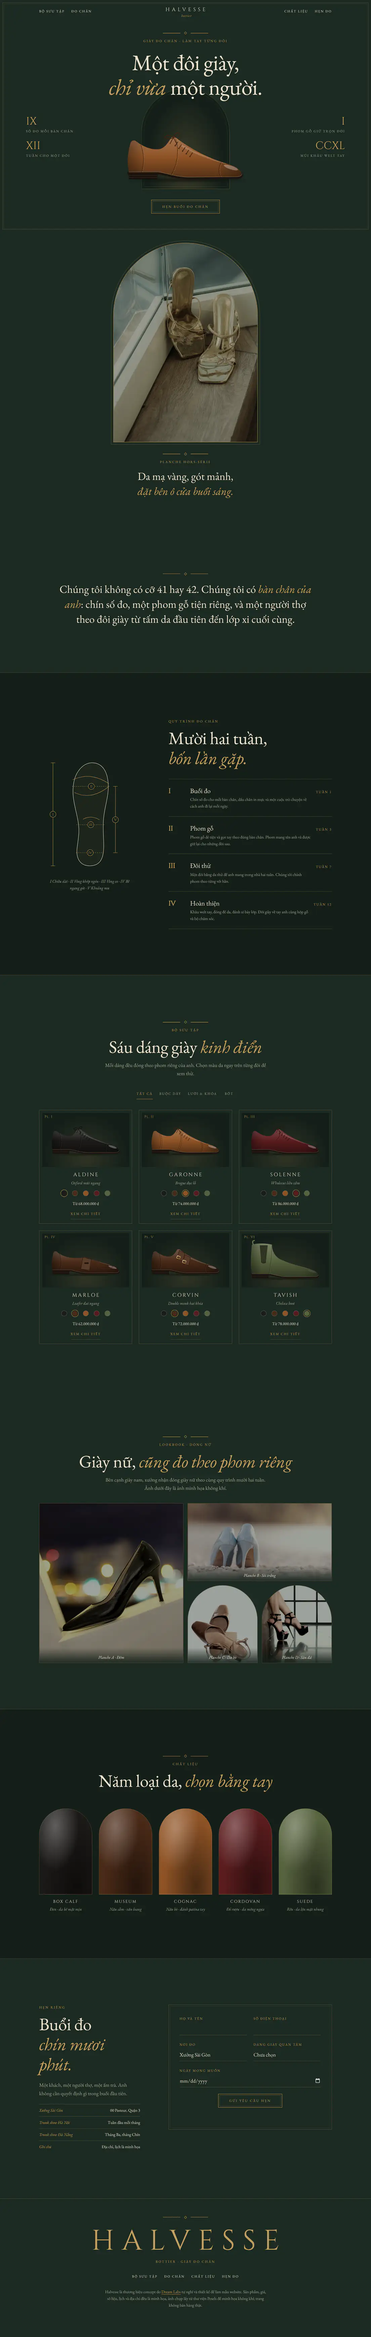
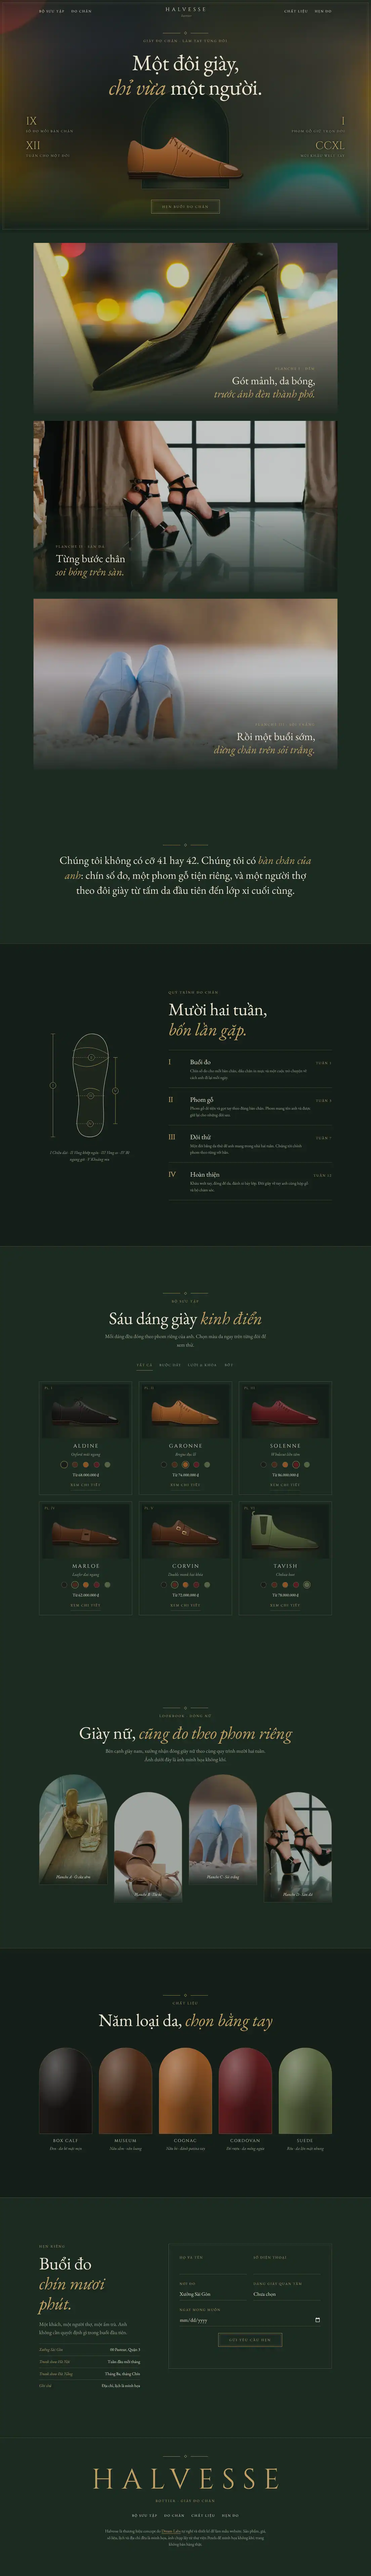
Demo Halvesse: hero bokeh, ô cửa vòm phóng toàn màn hình, lookbook nghiêng 3D
Claude-Session: https://claude.ai/code/session_012QLWn7rvRysGvRwdv6upwG

diff --git a/demos/lux-halvesse.html b/demos/lux-halvesse.html
@@ -41,13 +41,6 @@ input,select,textarea{font:inherit;color:inherit;border-radius:0}
 .toast{position:fixed;left:50%;bottom:26px;z-index:130;transform:translate(-50%,26px);opacity:0;pointer-events:none;transition:opacity 424ms var(--ease),transform 424ms var(--ease);max-width:calc(100vw - 32px);padding:10px 26px;font-size:13px;text-align:center}
 .toast.on{opacity:1;transform:translate(-50%,0)}
 .ph{position:relative;overflow:hidden;margin:0;background:var(--bg2)}
-.ph img{display:block;width:100%;height:100%;object-fit:cover;transition:transform 1796ms var(--ease),filter 1110ms var(--ease)}
-.pe{position:relative;overflow:hidden}.pe>.ph{position:absolute;inset:0}.pe>.ph img{position:absolute;left:0;top:-9%;height:118%}
-.pg-g{display:grid;grid-template-columns:repeat(4,1fr);grid-auto-rows:clamp(160px,19vw,300px);gap:10px}
-.pg-g .ph:first-child{grid-column:span 2;grid-row:span 2}.pg-4 .ph:nth-child(2){grid-column:span 2}
-.pg-g .ph:hover img{transform:scale(1.05)}
-.pg-g figcaption{position:absolute;left:0;right:0;bottom:0;padding:26px 16px 10px;font-size:13px;line-height:1.38;pointer-events:none}
-@media(max-width:700px){.pg-g{grid-template-columns:1fr 1fr;grid-auto-rows:clamp(150px,52vw,260px);gap:6px}.pg-g .ph:first-child{grid-row:span 1}.pg-4 .ph:nth-child(2){grid-column:span 1}.pg-4 .ph:last-child{grid-column:span 2}}
 .back{position:fixed;left:16px;bottom:16px;z-index:60;min-height:42px;padding:0 16px;display:flex;align-items:center;font-size:13px;letter-spacing:.04em}
 .fm{min-height:26px;font-size:13px}
 @media (prefers-reduced-motion:reduce){.js [data-r],.js [data-r=lines] .ln>span{opacity:1!important;transform:none!important;clip-path:none!important;transition:none!important}*,*::before,*::after{animation-duration:.01ms!important;animation-delay:0s!important;animation-iteration-count:1!important;transition-duration:.01ms!important;transition-delay:0s!important;scroll-behavior:auto!important}}
@@ -59,7 +52,7 @@ body::before{content:"";position:fixed;inset:10px;border:1px solid var(--line);o
 .rn{font-family:var(--fd);color:var(--acc)}
 h2{font-size:clamp(33px,5vw,68px);line-height:1.14;letter-spacing:-.01em}h2 em,h1 em{font-style:italic;color:var(--acc)}
 .orn{display:flex;align-items:center;justify-content:center;gap:16px;color:var(--acc)}
-.orn::before,.orn::after{content:"";height:1px;width:68px;background:var(--acc);transform-origin:right;animation:rl 1.8s .3s var(--ease) both}.orn::after{transform-origin:left}
+.orn::before,.orn::after{content:"";height:1px;width:68px;background:var(--acc);transform-origin:right;animation:rl 1.8s .3s var(--ease) both}.mo .orn[data-r]::before,.mo .orn[data-r]::after{animation:none;transform:scaleX(0);transition:transform 1.8s .3s var(--ease)}.mo .orn[data-r].in::before,.mo .orn[data-r].in::after{transform:none}.orn::after{transform-origin:left}
 .orn i{width:8px;height:8px;border:1px solid var(--acc);transform:rotate(45deg)}
 @keyframes rl{from{transform:scaleX(0)}to{transform:none}}
 .hdg{text-align:center;display:grid;gap:16px;justify-items:center;margin-bottom:68px}
@@ -100,6 +93,22 @@ h2{font-size:clamp(33px,5vw,68px);line-height:1.14;letter-spacing:-.01em}h2 em,h
 .hs b{font:400 42px/1 var(--fd);color:var(--acc);letter-spacing:0}.hs span{display:grid;gap:6px}.hs{gap:26px}
 .hs.l{left:max(42px,7vw);text-align:left}.hs.r{right:max(42px,7vw);text-align:right;justify-items:end}
 .hero .bt{margin-top:42px;animation:up 1.8s 1.1s var(--ease) both}
+.hb{position:absolute;inset:-4%;z-index:0}
+.hb img{width:100%;height:100%;object-fit:cover;transform-origin:18% 50%;transform:scale(1.16)}
+.mo .hb img{animation:kb 36s ease-in-out infinite alternate}
+@keyframes kb{from{transform:scale(1.14)}to{transform:scale(1.32) translate(1.5%,2%)}}
+.hb::after{content:"";position:absolute;inset:0;background:radial-gradient(ellipse 46% 58% at 50% 50%,rgba(20,31,25,.86),rgba(20,31,25,.56) 96%),linear-gradient(0deg,var(--bg) 6%,transparent 30%,transparent 78%,rgba(20,31,25,.7))}
+.hc{position:absolute;inset:0;width:100%;height:100%;z-index:0;pointer-events:none}
+.hero>.orn,.hero>.sc2,.hero>.bt,.alc,.hs{z-index:1}.hero>.orn,.hero>.sc2,.hero>.bt{position:relative}
+@media(min-width:901px){.hs{text-shadow:0 0 16px #141f19,0 0 4px #141f19}}
+.hero.off *{animation-play-state:paused!important}
+.gl{position:absolute;inset:0;border-radius:inherit;overflow:hidden;pointer-events:none}
+.mo .gl::before{content:"";position:absolute;inset:-10% auto -10% 0;width:46%;background:linear-gradient(100deg,transparent,rgba(241,223,174,.17),transparent);animation:gl 8s 2.6s var(--ease) infinite both}
+@keyframes gl{0%{transform:translateX(-150%) skewX(-14deg)}36%,100%{transform:translateX(340%) skewX(-14deg)}}
+.wd{display:inline-block;overflow:hidden;vertical-align:top;padding:.3em .05em .24em;margin:-.3em -.05em -.24em}
+.ch{display:inline-block;animation:chr 1.6s calc(.25s + var(--c)*44ms) cubic-bezier(.16,1,.3,1) both}
+@keyframes chr{from{transform:translateY(130%) rotate(8deg)}}
+.hero h1.sp{animation:none}
 @media(max-width:900px){.hs{position:static;grid-auto-flow:column;gap:26px;margin-top:26px;text-align:center!important;justify-items:center!important}.hs.r{display:none}.hs{grid-auto-columns:1fr;width:100%;padding:0 26px;gap:16px;font-size:10px;letter-spacing:.14em}.alc{margin-top:-16px}.alc .sh{width:128%}.hero .bt{margin-top:26px}}
 /* lời xưởng */
 .cr{text-align:center}
@@ -121,6 +130,7 @@ h2{font-size:clamp(33px,5vw,68px);line-height:1.14;letter-spacing:-.01em}h2 em,h
 .ft figcaption{margin-top:16px;text-align:center;font-style:italic;color:var(--mut);font-size:16px}
 .stp li{display:grid;grid-template-columns:68px 1fr auto;gap:16px;align-items:baseline;padding:26px 0;border-top:1px solid var(--line)}
 .stp li:last-child{border-bottom:1px solid var(--line)}
+.mo .stp li{border-top-color:transparent;position:relative}.mo .stp li::before{content:"";position:absolute;left:0;right:0;top:-1px;height:1px;background:var(--line);transform:scaleX(0);transform-origin:left;transition:transform 2.2s var(--ease) calc(var(--i,0)*100ms)}.mo .stp li.in::before{transform:none}
 .stp .rn{font-size:26px}.stp h3{font-size:26px;line-height:1.14}.stp p{color:var(--mut);font-size:16px;margin-top:6px;max-width:30em}
 .stp span{font-size:13px;letter-spacing:.2em;text-transform:uppercase;color:var(--acc);white-space:nowrap}
 @media(max-width:520px){.stp li{grid-template-columns:42px 1fr}.stp span{grid-column:2}}
@@ -151,7 +161,10 @@ h2{font-size:clamp(33px,5vw,68px);line-height:1.14;letter-spacing:-.01em}h2 em,h
 .lt i{display:block;aspect-ratio:1/1.618;border-radius:999px 999px 0 0;border:1px solid var(--line);background:radial-gradient(ellipse at 30% 20%,rgba(255,255,255,.3),transparent 46%),radial-gradient(ellipse at 70% 90%,rgba(0,0,0,.5),transparent 62%),var(--c);margin-bottom:10px;transition:transform 1.1s var(--ease)}
 .lt li:hover i{transform:translateY(-10px)}
 .lt b{font:400 16px var(--fd);letter-spacing:.16em}.lt span{font-size:16px;font-style:italic;color:var(--mut)}
-@media(max-width:799px){.lt li:last-child{grid-column:1/-1;max-width:50%;margin:0 auto;width:100%}}
+@media(max-width:799px){.lt li:last-child{grid-column:1/-1;max-width:50%;margin:0 auto;width:100%}.mo .lt li[data-r]{transform:translateY(42px) rotate(calc((var(--i,0) - 2)*5deg))}}
+.mo .lt li[data-r]{transform-origin:50% 130%;transition-duration:1.8s}
+@media(min-width:800px){.mo .lt li[data-r]{transform:translateX(calc((2 - var(--i,0))*(100% + 26px))) rotate(calc((var(--i,0) - 2)*9deg))}}
+.mo .lt li[data-r].in{transform:none}
 /* hẹn */
 .bk{display:grid;gap:68px}
 @media(min-width:900px){.bk{grid-template-columns:38.2fr 61.8fr;gap:110px;align-items:start}}
@@ -192,27 +205,42 @@ footer{padding:68px 0 110px;text-align:center;border-top:1px solid var(--line)}
 .toast{background:var(--acc);color:var(--bg2);font-size:16px}
 .back{left:26px;bottom:26px;border:1px solid var(--line);background:var(--bg2);color:var(--acc)}
 /*PH-CSS*/
-.pe{display:grid;justify-items:center;padding:42px 0 110px;text-align:center}
-.pe>.ph{position:relative;inset:auto;width:min(560px,78vw);aspect-ratio:1/1.38;border-radius:999px 999px 0 0;border:1px solid var(--acc);outline:1px solid var(--line);outline-offset:8px}
-.pe>.ph img{filter:sepia(.24) saturate(.74) brightness(.88) contrast(1.04)}
-.pe>.ph::after,.pg-g .ph::after{content:"";position:absolute;inset:0;background:#1c2a22;mix-blend-mode:multiply;opacity:.34;pointer-events:none}
-.pe-t{margin-top:42px}
-.pe-cap{display:grid;gap:16px;justify-items:center}
-.pe-q{font-size:clamp(26px,3.4vw,42px);line-height:1.38}.pe-q em{color:var(--acc)}
+.ph img{display:block;object-fit:cover}
+.pe{padding:42px max(26px,5vw) 110px}.pe-s{display:grid;gap:26px}
+.pv{position:relative;overflow:hidden;margin:0 auto;width:100%;max-width:1180px;aspect-ratio:16/9;background:var(--bg2)}
+.pv img{position:absolute;left:0;top:0;width:100%;height:100%;max-width:none;object-fit:cover;object-position:var(--f,50%) var(--fy,50%)}
+.pv::after{content:"";position:absolute;inset:0;background:linear-gradient(0deg,rgba(20,31,25,.9),rgba(20,31,25,.08) 56%),rgba(28,42,34,.2);pointer-events:none}
+.pv figcaption{position:absolute;z-index:1;left:max(26px,6vw);bottom:max(42px,8%);display:grid;gap:10px}
+.pv.r figcaption{left:auto;right:max(26px,6vw);text-align:right;justify-items:end}
+.pe-q{font-size:clamp(26px,3.2vw,42px);line-height:1.22}.pe-q em{color:var(--acc);font-style:italic}
+.pe-h,.pe-o,.pe-n,.pe-k{display:none}
+@media(max-width:700px){.pv{aspect-ratio:4/5}}
+.mo .pe{padding:0;height:330svh}
+.mo .pe-s{display:block;position:sticky;top:0;height:100svh;overflow:hidden}
+.mo .pv{position:absolute;inset:0;max-width:none;aspect-ratio:auto;will-change:clip-path}
+.mo .pv img{left:50%;width:auto;min-width:100%;will-change:transform}
+.mo .pe-h,.mo .pe-k{display:grid;position:absolute;left:0;right:0;justify-items:center;gap:10px;text-align:center;top:calc(var(--at) - 84px)}
+.mo .pe-k{top:calc(var(--at) + var(--ah) + 26px);font-style:italic;color:var(--mut);font-size:16px}
+.mo .pe-o{display:block;position:absolute;left:calc(50% - var(--aw)/2 - 9px);top:calc(var(--at) - 9px);width:calc(var(--aw) + 18px);height:calc(var(--ah) + 18px);border:1px solid var(--line);border-radius:999px 999px 0 0;pointer-events:none}
+.mo .pe-n{display:grid;gap:16px;position:absolute;z-index:2;right:max(26px,3vw);top:50%;transform:translateY(-50%);font:13px var(--fd);color:var(--acc);text-align:center}
+.pe-n li{opacity:.34;transition:opacity 686ms var(--ease)}.pe-n li.on{opacity:1}
 .pg .hdg{margin-bottom:42px}
-.pg-g{gap:16px;grid-auto-rows:clamp(180px,21vw,320px)}
-.pg-g .ph{border:1px solid var(--line)}
-.pg-g .ph:nth-child(n+3){border-radius:999px 999px 0 0}
-@media(max-width:700px){.pg-g .ph:nth-child(2){border-radius:999px 999px 0 0}.pg-g .ph:nth-child(4){border-radius:0}}
-.pg-g img{filter:sepia(.22) saturate(.74) brightness(.86) contrast(1.04)}
-.pg-g .ph:hover img{filter:sepia(.1) saturate(.9) brightness(.95)}
-.pg-g .ph:nth-child(3) img{object-position:50% 72%}.pg-g .ph:nth-child(4) img{object-position:62% 50%}
-.pg-g figcaption{text-align:center;font-style:italic;font-size:16px;color:var(--ink);background:linear-gradient(0deg,rgba(20,31,25,.86),transparent);z-index:1}
+.lk{display:grid;grid-template-columns:repeat(4,1fr);gap:26px;align-items:start}
+.lk li:nth-child(even){margin-top:68px}
+.lk .ph{aspect-ratio:1/1.618;border-radius:999px 999px 0 0;border:1px solid var(--line);transition:transform 1s cubic-bezier(.16,1,.3,1)}
+.lk img{position:absolute;left:0;top:-8%;width:100%;height:116%;object-position:var(--f,50%) 50%}
+.lk .ph::after{content:"";position:absolute;inset:0;background:#1c2a22;opacity:.42;transition:opacity 1.1s var(--ease);pointer-events:none}
+.lk .ph::before{content:"";position:absolute;z-index:2;inset:-10% auto -10% 0;width:60%;background:linear-gradient(100deg,transparent,rgba(241,223,174,.24),transparent);transform:translateX(-190%) skewX(-12deg);pointer-events:none}
+.lk figcaption{position:absolute;z-index:1;left:0;right:0;bottom:0;padding:42px 10px 16px;text-align:center;font-style:italic;font-size:16px;background:linear-gradient(0deg,rgba(20,31,25,.9),transparent);pointer-events:none}
+.lk-h{display:none;text-align:center;font-style:italic;font-size:16px;color:var(--mut);margin-top:16px}
+@media(hover:hover){.lk .ph:hover::after{opacity:.08}.lk .ph:hover::before{transform:translateX(320%) skewX(-12deg);transition:transform 1.5s var(--ease)}}
+@media(max-width:700px){.lk{display:flex;gap:16px;overflow-x:auto;scroll-snap-type:x mandatory;margin:0 calc(-1*max(26px,5vw));padding:0 14% 10px;scrollbar-width:none}.lk::-webkit-scrollbar{display:none}
+.lk li{flex:0 0 100%;scroll-snap-align:center;margin:0!important;opacity:1!important;transform:none!important}.lk .ph::after{opacity:.2}.lk .ph:active{transform:scale(.96)}.lk-h{display:block}}
 /*/PH-CSS*/
 </style>
 </head>
 <body>
-<script>document.documentElement.classList.add('js')</script>
+<script>(c=>{c.add('js');matchMedia('(prefers-reduced-motion: reduce)').matches||c.add('mo')})(document.documentElement.classList)</script>
 <div class="cur" aria-hidden="true"><i></i></div>
 <header class="hd"><div class="w">
  <nav aria-label="Chính"><a href="#bo-suu-tap">Bộ sưu tập</a><a href="#do-chan">Đo chân</a></nav>
@@ -225,18 +253,25 @@ footer{padding:68px 0 110px;text-align:center;border-top:1px solid var(--line)}
 
 <main>
 <section class="hero" id="top">
+ <div class="hb"><img src="../img/photo/lux-halvesse-bokeh.webp" width="760" height="640" alt="Ánh đèn thành phố về đêm nhòe thành những đốm sáng vàng, đỏ và xanh" decoding="async" fetchpriority="high"></div><canvas class="hc" aria-hidden="true"></canvas>
  <div class="orn"><i></i></div>
  <p class="sc2" style="margin-top:16px;animation:up 1.8s var(--ease) both">Giày đo chân · Làm tay từng đôi</p>
- <h1>Một đôi giày,<br><em>chỉ vừa</em> một người.</h1>
- <div class="alc"><div class="sh" id="hsh" data-px=".04"></div></div>
- <div class="hs l"><span><b>IX</b>số đo mỗi bàn chân</span><span><b>XII</b>tuần cho một đôi</span></div>
- <div class="hs r"><span><b>I</b>phom gỗ giữ trọn đời</span><span><b>CCXL</b>mũi khâu welt tay</span></div>
+ <h1 aria-label="Một đôi giày, chỉ vừa một người.">Một đôi giày,<br><em>chỉ vừa</em> một người.</h1>
+ <div class="alc"><i class="gl"></i><div class="sh" id="hsh"></div></div>
+ <div class="hs l"><span><b data-n="9">IX</b>số đo mỗi bàn chân</span><span><b data-n="12">XII</b>tuần cho một đôi</span></div>
+ <div class="hs r"><span><b data-n="1">I</b>phom gỗ giữ trọn đời</span><span><b data-n="240">CCXL</b>mũi khâu welt tay</span></div>
  <a class="bt" href="#hen">Hẹn buổi đo chân</a>
 </section>
 
 
 <!--PH-ED-->
-<section class="pe" aria-label="Ảnh không khí của nhà Halvesse"><figure class="ph" data-r="mask"><img src="../img/photo/giay-38703033.webp" width="1067" height="1600" alt="Đôi sandal da ánh vàng đặt trên bậc gỗ cạnh ô cửa kính" decoding="async" loading="lazy" data-px=".12"></figure><div class="pe-t w"><div class="pe-cap"><div class="orn" data-r><i></i></div><p class="sc2" data-r>Planche hors-série</p><p class="pe-q" data-r>Da mạ vàng, gót mảnh,<br><em>đặt bên ô cửa buổi sáng.</em></p></div></div></section>
+<section class="pe" id="vom" aria-label="Ảnh không khí của nhà Halvesse"><div class="pe-s">
+ <div class="pe-h"><div class="orn"><i></i></div><p class="sc2">Planche hors-série</p></div><p class="pe-k">Cuộn để bước qua ô cửa vòm</p>
+ <figure class="pv r"><img src="../img/photo/giay-27113452-xl.webp" width="2000" height="2000" alt="Một chiếc giày cao gót da bóng màu đen đặt trên gờ trắng, phía sau là ánh đèn thành phố nhòe" decoding="async" loading="lazy" data-f=".6" style="--fy:72%"><figcaption><span class="sc2">Planche I · Đêm</span><span class="pe-q">Gót mảnh, da bóng,<br><em>trước ánh đèn thành phố.</em></span></figcaption></figure>
+ <figure class="pv"><img src="../img/photo/giay-13229858-xl.webp" width="2400" height="1600" alt="Đôi chân mang giày cao gót quai đen bóng đứng trên sàn đá phản chiếu ô cửa" decoding="async" loading="lazy" data-f=".47" style="--f:47%"><figcaption><span class="sc2">Planche II · Sàn đá</span><span class="pe-q">Từng bước chân<br><em>soi bóng trên sàn.</em></span></figcaption></figure>
+ <figure class="pv r"><img src="../img/photo/giay-34294446-xl.webp" width="2200" height="1468" alt="Đôi giày cao gót màu xanh nhạt đứng trên nền sỏi trắng, nhìn từ phía sau" decoding="async" loading="lazy" data-f=".34" style="--f:34%"><figcaption><span class="sc2">Planche III · Sỏi trắng</span><span class="pe-q">Rồi một buổi sớm,<br><em>dừng chân trên sỏi trắng.</em></span></figcaption></figure>
+ <i class="pe-o"></i><ol class="pe-n" aria-hidden="true"><li>I</li><li>II</li><li>III</li></ol>
+</div></section>
 <!--/PH-ED-->
 
 <section class="sec cr"><div class="w">
@@ -277,7 +312,7 @@ footer{padding:68px 0 110px;text-align:center;border-top:1px solid var(--line)}
 
 
 <!--PH-LB-->
-<section class="sec pg" id="dong-nu"><div class="w"><div class="hdg"><div class="orn" data-r><i></i></div><p class="sc2" data-r>Lookbook · Dòng nữ</p><h2 data-r>Giày nữ, <em>cũng đo theo phom riêng</em></h2><p class="t" data-r>Bên cạnh giày nam, xưởng nhận đóng giày nữ theo cùng quy trình mười hai tuần. Ảnh dưới đây là ảnh minh họa không khí.</p></div><div class="pg-g pg-4"><figure class="ph" data-r="mask" style="--i:0"><img src="../img/photo/giay-27113452.webp" width="1600" height="1600" alt="Một chiếc giày cao gót da bóng màu đen đặt trên gờ trắng, phía sau là ánh đèn thành phố nhòe" decoding="async" loading="lazy"><figcaption>Planche A · Đêm</figcaption></figure><figure class="ph" data-r="mask" style="--i:1"><img src="../img/photo/giay-34294446.webp" width="1600" height="1068" alt="Đôi giày cao gót màu xanh nhạt đứng trên nền sỏi trắng, nhìn từ phía sau" decoding="async" loading="lazy"><figcaption>Planche B · Sỏi trắng</figcaption></figure><figure class="ph" data-r="mask" style="--i:2"><img src="../img/photo/giay-36589772.webp" width="1067" height="1600" alt="Đôi giày da màu nâu bò quai mảnh xếp chéo nhau trên khối gỗ" decoding="async" loading="lazy"><figcaption>Planche C · Da bò</figcaption></figure><figure class="ph" data-r="mask" style="--i:3"><img src="../img/photo/giay-13229858.webp" width="1600" height="1067" alt="Đôi chân mang giày cao gót quai đen bóng đứng trên sàn đá phản chiếu ô cửa" decoding="async" loading="lazy"><figcaption>Planche D · Sàn đá</figcaption></figure></div></div></section>
+<section class="sec pg" id="dong-nu"><div class="w"><div class="hdg"><div class="orn" data-r><i></i></div><p class="sc2" data-r>Lookbook · Dòng nữ</p><h2 data-r>Giày nữ, <em>cũng đo theo phom riêng</em></h2><p class="t" data-r>Bên cạnh giày nam, xưởng nhận đóng giày nữ theo cùng quy trình mười hai tuần. Ảnh dưới đây là ảnh minh họa không khí.</p></div><ul class="lk"><li data-r style="--i:0"><figure class="ph" data-c="Ngắm"><img src="../img/photo/giay-38703033.webp" width="1067" height="1600" alt="Đôi sandal da ánh vàng đặt trên bậc gỗ cạnh ô cửa kính" decoding="async" loading="lazy" data-px=".05" style="--f:50%"><figcaption>Planche A · Ô cửa sớm</figcaption></figure></li><li data-r style="--i:1"><figure class="ph" data-c="Ngắm"><img src="../img/photo/giay-36589772.webp" width="1067" height="1600" alt="Đôi giày da màu nâu bò quai mảnh xếp chéo nhau trên khối gỗ" decoding="async" loading="lazy" data-px=".08" style="--f:50%"><figcaption>Planche B · Da bò</figcaption></figure></li><li data-r style="--i:2"><figure class="ph" data-c="Ngắm"><img src="../img/photo/giay-34294446.webp" width="1600" height="1068" alt="Đôi giày cao gót màu xanh nhạt đứng trên nền sỏi trắng, nhìn từ phía sau" decoding="async" loading="lazy" data-px=".05" style="--f:27%"><figcaption>Planche C · Sỏi trắng</figcaption></figure></li><li data-r style="--i:3"><figure class="ph" data-c="Ngắm"><img src="../img/photo/giay-13229858.webp" width="1600" height="1067" alt="Đôi chân mang giày cao gót quai đen bóng đứng trên sàn đá phản chiếu ô cửa" decoding="async" loading="lazy" data-px=".08" style="--f:44%"><figcaption>Planche D · Sàn đá</figcaption></figure></li></ul><p class="lk-h">Vuốt ngang để xem đủ bốn planche</p></div></section>
 <!--/PH-LB-->
 
 <section class="sec ms" id="da"><div class="w">
@@ -321,7 +356,7 @@ footer{padding:68px 0 110px;text-align:center;border-top:1px solid var(--line)}
 <script>
 (()=>{
 const D=document,H=D.documentElement,$=(s,r=D)=>r.querySelector(s),$$=(s,r=D)=>[...r.querySelectorAll(s)];
-const PHI=1.61803,RM=matchMedia('(prefers-reduced-motion: reduce)').matches,FINE=matchMedia('(hover:hover) and (pointer:fine)').matches;
+const PHI=1.61803,MO=H.classList.contains('mo'),RM=matchMedia('(prefers-reduced-motion: reduce)').matches,FINE=matchMedia('(hover:hover) and (pointer:fine)').matches;
 const vnd=n=>n?Math.round(n).toString().replace(/\B(?=(\d{3})+$)/g,'.')+' ₫':'Giá theo yêu cầu';
 const shade=(h,f)=>{const n=parseInt(h.slice(1),16),c=[n>>16,n>>8&255,n&255].map(v=>Math.max(0,Math.min(255,Math.round(f<0?v*(1+f):v+(255-v)*f))));return '#'+c.map(v=>v.toString(16).padStart(2,'0')).join('')};
 /* hiện dần khi cuộn */
@@ -413,6 +448,38 @@ const open=i=>{const s=S[i];let so=0;const html=()=>`<div class="qa">${shoe(s.k,
 gr.addEventListener('click',e=>{const v=e.target.closest('[data-v]');if(v)return paint(+v.dataset.s,+v.dataset.v);const b=e.target.closest('[data-i]');b&&open(+b.dataset.i)});
 $('#fs').insertAdjacentHTML('beforeend',S.map(s=>`<option>${s.n} · ${s.t}</option>`).join(''));
 scan();
+/* hero: tách chữ, số la mã, bokeh, parallax chuột */
+const he=$('.hero'),cl=v=>v<0?0:v>1?1:v,ez=t=>t<.5?4*t*t*t:1-Math.pow(2-2*t,3)/2,eo=t=>1-Math.pow(1-t,4),sg=(p,a,b)=>cl((p-a)/(b-a));
+if(MO){const h1=$('h1',he);let c=0;
+ const sp=n=>[...n.childNodes].forEach(k=>{if(k.nodeType===3){const f=D.createDocumentFragment();k.data.split(/(\s+)/).forEach(w=>{if(!w.trim())return f.append(w);const s=D.createElement('span');s.className='wd';s.setAttribute('aria-hidden','true');s.innerHTML=[...w].map(x=>`<span class="ch" style="--c:${c++}">${x}</span>`).join('');f.append(s)});k.replaceWith(f)}else k.tagName!=='BR'&&sp(k)});sp(h1);h1.classList.add('sp');
+ const rom=n=>{let s='';[[100,'C'],[90,'XC'],[50,'L'],[40,'XL'],[10,'X'],[9,'IX'],[5,'V'],[4,'IV'],[1,'I']].forEach(([v,r])=>{while(n>=v){s+=r;n-=v}});return s};
+ $$('.hs b',he).forEach((b,i)=>{const n=+b.dataset.n,t0=performance.now()+1100+i*240;if(n<2)return;b.textContent='I';const f=t=>{const q=cl((t-t0)/2200);b.textContent=rom(Math.round(1+(n-1)*eo(q)));q<1&&requestAnimationFrame(f)};requestAnimationFrame(f)});
+ const cv=$('.hc'),cx=cv.getContext('2d'),hb=$('.hb'),hs=$('#hsh').firstElementChild,sp2=D.createElement('canvas'),N=FINE?30:12,
+  pt=Array.from({length:N},()=>({x:Math.random(),y:Math.random(),r:5+Math.random()*Math.random()*44,v:.006+Math.random()*.016,a:.06+Math.random()*.2,p:Math.random()*6.28}));
+ sp2.width=sp2.height=128;{const g=sp2.getContext('2d'),q=g.createRadialGradient(64,64,0,64,64,64);q.addColorStop(0,'rgba(226,200,140,.5)');q.addColorStop(.74,'rgba(214,180,112,.56)');q.addColorStop(.9,'rgba(241,223,174,.8)');q.addColorStop(1,'rgba(194,160,99,0)');g.fillStyle=q;g.fillRect(0,0,128,128)}
+ let W,HH,dp,vis=0,ra=0,lt=0,mx=0,my=0,sx=0,sy=0;
+ const rs=()=>{dp=Math.min(devicePixelRatio||1,1.5);W=cv.width=he.clientWidth*dp;HH=cv.height=he.clientHeight*dp};
+ const fr=t=>{ra=0;if(!vis||D.hidden)return;const dt=Math.min(.05,(t-lt)/1e3||0);lt=t;sx+=(mx-sx)*.05;sy+=(my-sy)*.05;cx.clearRect(0,0,W,HH);
+  pt.forEach(o=>{o.y-=o.v*dt;if(o.y<-.1){o.y=1.1;o.x=Math.random()}const r=o.r*dp;cx.globalAlpha=o.a*(.55+.45*Math.sin(t*.0007+o.p));cx.drawImage(sp2,(o.x+Math.sin(t*.00013+o.p)*.02)*W-r-sx*o.r*dp,o.y*HH-r-sy*o.r*dp*.6,r*2,r*2)});
+  if(FINE){hb.style.transform=`translate3d(${(-sx*26).toFixed(1)}px,${(-sy*18).toFixed(1)}px,0)`;hs.style.transform=`translate3d(${(sx*16).toFixed(1)}px,${(sy*9).toFixed(1)}px,0)`}
+  ra=requestAnimationFrame(fr)},kick=()=>{he.classList.toggle('off',!vis);vis&&!D.hidden&&!ra&&(ra=requestAnimationFrame(fr))};
+ rs();addEventListener('resize',rs);new IntersectionObserver(e=>{vis=e[0].isIntersecting;kick()}).observe(he);D.addEventListener('visibilitychange',kick);
+ FINE&&he.addEventListener('mousemove',e=>{mx=e.clientX/innerWidth-.5;my=e.clientY/innerHeight-.5},{passive:true});
+ /* ô cửa vòm: phóng lớn rồi đổi ảnh theo nhịp bước chân */
+ const pe=$('.pe'),ps=$('.pe-s'),pv=$$('.pv',pe),im=pv.map(f=>$('img',f)),cp=pv.map(f=>$('figcaption',f)),nn=$$('.pe-n li',pe),fd=[$('.pe-h',pe),$('.pe-k',pe),$('.pe-o',pe)];
+ let vw,vh,aw,ah,at,ov,st=-1,tk=0,pon=0;
+ const mv=(i,q,s)=>{im[i].style.transform=`translate3d(calc(-50% + ${Math.max(-ov[i]/2,Math.min(ov[i]/2,(ov[i]+vw)*(.5-im[i].dataset.f)+ov[i]*(1-q)*.3)).toFixed(1)}px),0,0) scale(${s.toFixed(3)})`},
+ wp=(i,p,a,f)=>{const u=ez(sg(p,a,a+.14)),v=ez(sg(p,a+.07,a+.21)),L=(100-(f?v:u)*100).toFixed(2),R=(100-(f?u:v)*100).toFixed(2);
+  pv[i].style.clipPath=`polygon(0 101%,0 ${L}%,50% ${L}%,50% ${R}%,101% ${R}%,101% 101%)`;mv(i,sg(p,a,a+.3),1.16-.16*eo(sg(p,a,a+.24)));cp[i].style.opacity=sg(p,a+.13,a+.22)},
+ up=()=>{tk=0;const r=pe.getBoundingClientRect(),p=cl(-r.top/(r.height-vh)),e=ez(sg(p,0,.34)),l=(vw-aw)/2*(1-e),rd=(vw/2-l)*(1-e);
+  pv[0].style.clipPath=`inset(${(at*(1-e)).toFixed(1)}px ${l.toFixed(1)}px ${((vh-at-ah)*(1-e)).toFixed(1)}px round ${rd.toFixed(1)}px ${rd.toFixed(1)}px 0 0)`;mv(0,sg(p,0,.5),1.2-.2*e);
+  fd.forEach(x=>x.style.opacity=1-cl(e*6));fd[2].style.transform=`scale(${(1+e).toFixed(3)})`;
+  cp[0].style.opacity=sg(p,.24,.34);cp[0].style.transform=`translate3d(0,${((1-eo(sg(p,.24,.38)))*26).toFixed(1)}px,0)`;
+  wp(1,p,.42,0);wp(2,p,.7,1);const s=p<.5?0:p<.79?1:2;if(s!==st){st=s;nn.forEach((n,i)=>n.classList.toggle('on',i===s))}},
+ ms=()=>{vw=ps.clientWidth;vh=ps.clientHeight;aw=Math.min(400,vw*.64,vh*.4);ah=aw*1.38;at=(vh-ah)/2+26;[['aw',aw],['ah',ah],['at',at]].forEach(([k,v])=>ps.style.setProperty('--'+k,v+'px'));ov=im.map(i=>Math.max(0,vh*i.getAttribute('width')/i.getAttribute('height')-vw));up()};
+ ms();addEventListener('resize',ms);new IntersectionObserver(e=>{pon=e[0].isIntersecting}).observe(pe);addEventListener('scroll',()=>{pon&&!tk&&(tk=requestAnimationFrame(up))},{passive:true});
+ /* lookbook: nghiêng theo chuột */
+ FINE&&$$('.lk .ph').forEach(f=>{f.addEventListener('mousemove',e=>{const r=f.getBoundingClientRect();f.style.transform=`perspective(900px) rotateY(${(((e.clientX-r.left)/r.width-.5)*13).toFixed(2)}deg) rotateX(${(((e.clientY-r.top)/r.height-.5)*-10).toFixed(2)}deg) scale(1.03)`},{passive:true});f.addEventListener('mouseleave',()=>f.style.transform='')})}
 })();
 </script>
 </body>
